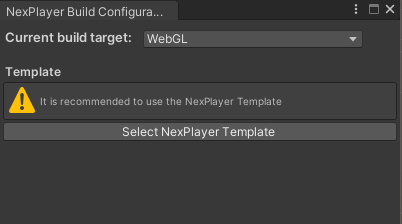
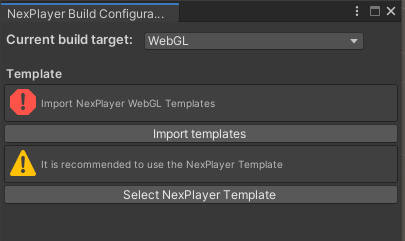
added how include webgl templates in the integration gide

diff --git a/unity.md b/unity.md
@@ -523,7 +523,7 @@ The NexPlayer™ Plugin for Unity supports Builds for WebGL applications.
 
 To build the application with Nexplayer’s Template it is required to select the template inside Unity.
 
-In the top bar go to NexPlayer → Build Configuration Window and select the nexplayer template as shown in the image below: 
+In the top bar go to NexPlayer → Build Configuration Window and import the WebGL templates and select the nexplayer template as shown in the image below: 
 
 ![](images/image4.png)
 
